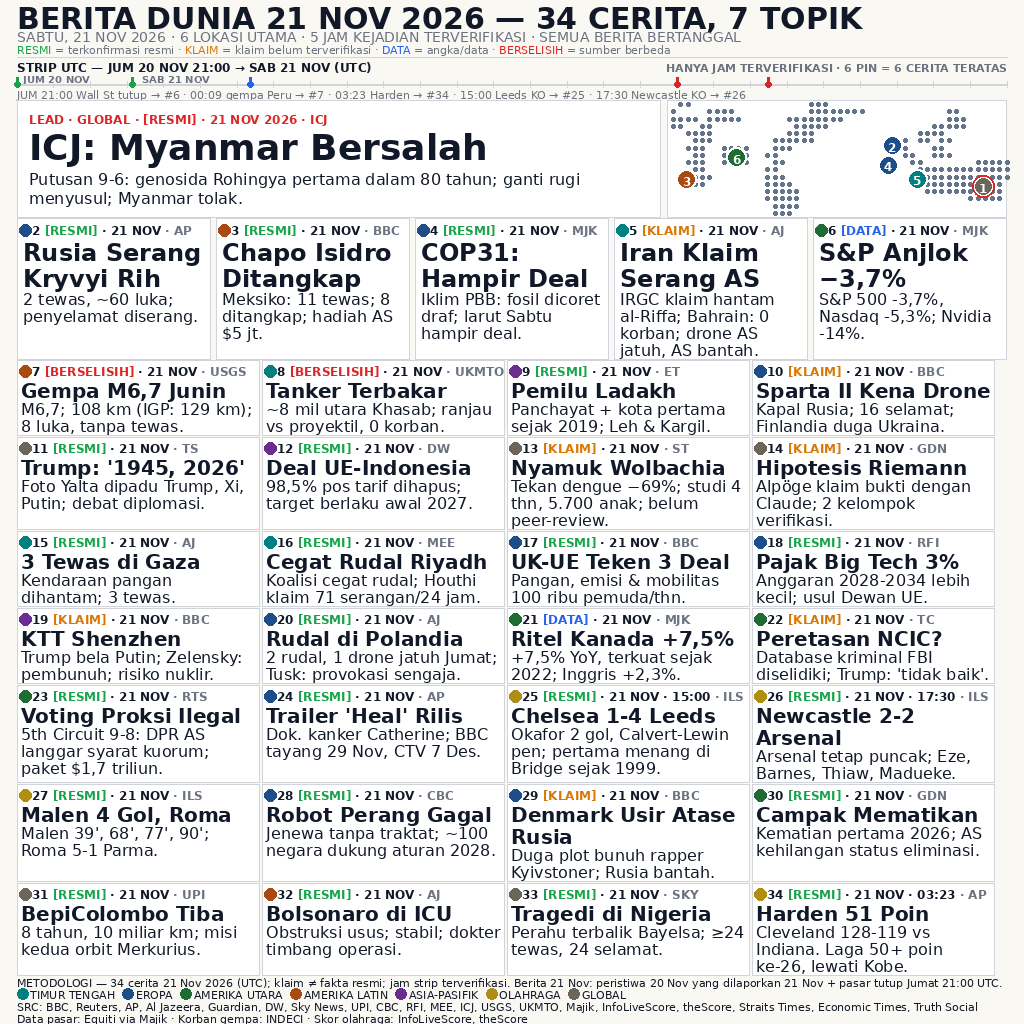
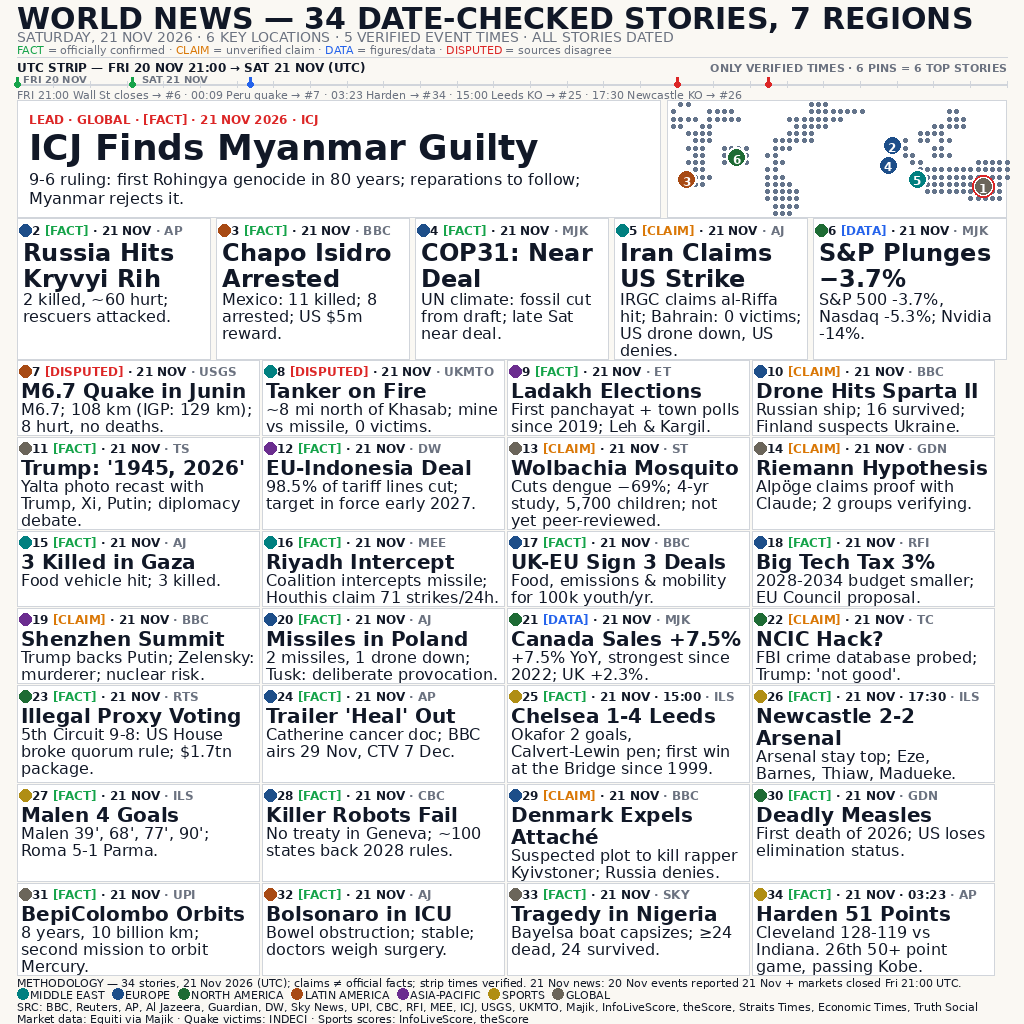
v8.11: English version of v8.10 per rev8.11 brief — 34 stories fully translated (facts, lon/lat/time/source unchanged), tags FACT/CLAIM/DATA/DISPUTED, English groups, h1 'WORLD NEWS — 34 DATE-CHECKED STORIES, 7 REGIONS' (956.1px), header/strip/footer English; render 2x byte-identical; #5 body end=14

diff --git a/build_image.py b/build_image.py
@@ -1,5 +1,25 @@
 #!/usr/bin/env python3
-"""Render entry.png 1024x1024 — news-image-20261121 v8.10 (brief rev8.10).
+"""Render entry.png 1024x1024 — news-image-20261121 v8.11 (brief rev8.11).
+
+v8.11 = VERSI INGGRIS PENUH v8.10 (34 cerita sama, fakta sama,
+geometri sama — hanya bahasa; bos: "Coba versi Inggris" 22 Nov 22:16 WIB,
+5 besar leaderboard semuanya Inggris; v8.10 Indonesia 7-3-2, $0).
+- Tag FACT (was RESMI) — VERIFIED 8 huruf bikin 6 meta gagal, PROVEN
+  6 huruf bikin 5 meta gagal; FACT 4 huruf LOLOS semua (terukur parent).
+  CLAIM (was KLAIM), DISPUTED (was BERSELISIH), DATA tetap, BANTAH
+  tetap (tidak dipakai). Grup Inggris (MIDDLE EAST, EUROPE, NORTH
+  AMERICA, LATIN AMERICA, ASIA-PACIFIC, SPORTS, GLOBAL).
+- h1 "WORLD NEWS — 34 DATE-CHECKED STORIES, 7 REGIONS" (956,1px @30
+  bold); h2 "SATURDAY, 21 NOV 2026 · 6 KEY LOCATIONS · 5 VERIFIED EVENT
+  TIMES · ALL STORIES DATED" (656,3px @14). Kicker lead "LEAD · GLOBAL
+  · [FACT] · 21 NOV 2026 · ICJ" (~300px).
+- Strip/strip legend/label hari/footer line1/src2 Inggris (terukur
+  parent, brief rev8.11 B). src1 TIDAK BERUBAH (961,0px).
+- Data stories_v8_11.py (baru): 34 tuple Inggris; lon/lat/time/source
+  TIDAK berubah. #5 badan end=140 TEPAT; #19 badan baris 1 233px;
+  #20 badan baris 2 232px; #26/#29 judul 2 baris + vertikal tepat
+  di batas — SEMUA wajib ukur ulang + lolos assert render.
+- TANPA ubah geometri/font/layout, main.py, README, LICENSE, owner.json.
 
 v8.10 = polish atas v8.9 (34 cerita, 1 kartu = 1 cerita, lead + 5 sekunder +
 28 reguler 4x7). 6 item (brief rev8.10) — TANPA ubah geometri:
@@ -99,7 +119,7 @@ Leading badan 17px (16px font — lantai, tidak pernah dikecilkan).
 from PIL import Image, ImageDraw, ImageFont
 import os, sys
 sys.path.insert(0, os.path.dirname(os.path.abspath(__file__)))
-from stories_v8_10 import (STORIES, PINS_V8_2, GROUP_COLOR, GROUP_ORDER,
+from stories_v8_11 import (STORIES, PINS_V8_2, GROUP_COLOR, GROUP_ORDER,
                          SRC_SHORT, TIME_IN_META)
 
 W, H = 1024, 1024
@@ -120,10 +140,10 @@ PURPLE = (124, 58, 237)
 CYAN = (8, 145, 178)
 
 TAG_STYLE = {
-    "RESMI": (GREEN, (220, 252, 231)),
+    "FACT": (GREEN, (220, 252, 231)),
     "DATA": (BLUE, (219, 234, 254)),
-    "KLAIM": (AMBER, (254, 243, 199)),
-    "BERSELISIH": (RED, (254, 226, 226)),
+    "CLAIM": (AMBER, (254, 243, 199)),
+    "DISPUTED": (RED, (254, 226, 226)),
     "BANTAH": (PURPLE, (237, 233, 254)),
 }
 
@@ -264,25 +284,25 @@ def draw_map(draw, x, y, w, h):
 # Tick 21:00 = JUMAT (bukan Sabtu) — judul + label tick + legenda "JUM"
 # menegaskan hari. Legenda menautkan tiap jam ke nomor kartu (brief D).
 STRIP_EVENTS = [  # (label, jam_dari_Jumat_21_00, warna)
-    ("21:00 Wall St tutup", 0.0, GREEN),
-    ("00:09 gempa Peru", 3.15, GREEN),
-    ("03:23 Harden 51 poin", 6.38, BLUE),
+    ("21:00 Wall St closes", 0.0, GREEN),
+    ("00:09 Peru quake", 3.15, GREEN),
+    ("03:23 Harden 51 pts", 6.38, BLUE),
     ("15:00 Leeds KO", 18.0, RED),
     ("17:30 Newcastle KO", 20.5, RED),
 ]
 
 def draw_strip(draw, y):
     x0, x1 = MARGIN, W - MARGIN
-    title = "STRIP UTC — JUM 20 NOV 21:00 → SAB 21 NOV (UTC)"
+    title = "UTC STRIP — FRI 20 NOV 21:00 → SAT 21 NOV (UTC)"
     draw.text((x0, y + 2), title, font=f(12, True), fill=INK)
-    right = "HANYA JAM TERVERIFIKASI · 6 PIN = 6 CERITA TERATAS"
+    right = "ONLY VERIFIED TIMES · 6 PINS = 6 TOP STORIES"
     draw.text((x1 - tw(draw, right, f(11, True)), y + 3), right,
               font=f(11, True), fill=MUTED)
     axis_y = y + 26
     # label hari di atas sumbu, di kanan tick-nya (tick 00:09 di x0+115
     # memaksa "SAB 21 NOV" geser ke x0+125 agar tidak menabrak tick itu).
-    draw.text((x0 + 6, y + 15), "JUM 20 NOV", font=f(10, True), fill=MUTED)
-    draw.text((x0 + 125, y + 15), "SAB 21 NOV", font=f(10, True), fill=MUTED)
+    draw.text((x0 + 6, y + 15), "FRI 20 NOV", font=f(10, True), fill=MUTED)
+    draw.text((x0 + 125, y + 15), "SAT 21 NOV", font=f(10, True), fill=MUTED)
     # garis sumbu + tick tiap jam (kecil, tidak menabrak legenda)
     draw.line([(x0, axis_y), (x1, axis_y)], fill=BORDER, width=2)
     for h in range(28):
@@ -293,7 +313,7 @@ def draw_strip(draw, y):
         tx = x0 + (x1 - x0) * h / 27.0
         draw.line([(tx, axis_y - 7), (tx, axis_y)], fill=col, width=3)
         draw.ellipse([tx - 3, axis_y - 3, tx + 3, axis_y + 3], fill=col)
-    legend = ("JUM 21:00 Wall St tutup → #6 · 00:09 gempa Peru → #7 · "
+    legend = ("FRI 21:00 Wall St closes → #6 · 00:09 Peru quake → #7 · "
               "03:23 Harden → #34 · 15:00 Leeds KO → #25 · "
               "17:30 Newcastle KO → #26")
     assert tw(draw, legend, f(11)) <= 990, "legenda strip terlalu lebar"
@@ -346,24 +366,24 @@ def draw_meta(draw, s, x, y, card_w):
     return mt
 
 def draw_header(draw):
-    h1 = "BERITA DUNIA 21 NOV 2026 — 34 CERITA, 7 TOPIK"
+    h1 = "WORLD NEWS — 34 DATE-CHECKED STORIES, 7 REGIONS"
     assert tw(draw, h1, f(30, True)) <= 990, "h1 terlalu lebar"
     draw.text((MARGIN, 1), h1, font=f(30, True), fill=INK)
     # h2 HURUF BESAR SEMUA (tanpa descender — memberi ruang utk legenda tag)
-    # v8.1 (B2): Bahasa Indonesia penuh.
-    h2 = ("SABTU, 21 NOV 2026 · 6 LOKASI UTAMA · 5 JAM KEJADIAN TERVERIFIKASI "
-          "· SEMUA BERITA BERTANGGAL")
+    # v8.11: Bahasa Inggris penuh.
+    h2 = ("SATURDAY, 21 NOV 2026 · 6 KEY LOCATIONS · 5 VERIFIED EVENT "
+          "TIMES · ALL STORIES DATED")
     assert tw(draw, h2, f(14)) <= 990, "h2 terlalu lebar"
     draw.text((MARGIN, 29), h2, font=f(14), fill=MUTED)
     # legenda tag SATU BARIS 11px, nama tag berwarna (brief E)
-    segs = [("RESMI", TAG_STYLE["RESMI"][0]),
-            (" = terkonfirmasi resmi · ", MUTED),
-            ("KLAIM", TAG_STYLE["KLAIM"][0]),
-            (" = klaim belum terverifikasi · ", MUTED),
+    segs = [("FACT", TAG_STYLE["FACT"][0]),
+            (" = officially confirmed · ", MUTED),
+            ("CLAIM", TAG_STYLE["CLAIM"][0]),
+            (" = unverified claim · ", MUTED),
             ("DATA", TAG_STYLE["DATA"][0]),
-            (" = angka/data · ", MUTED),
-            ("BERSELISIH", TAG_STYLE["BERSELISIH"][0]),
-            (" = sumber berbeda", MUTED)]
+            (" = figures/data · ", MUTED),
+            ("DISPUTED", TAG_STYLE["DISPUTED"][0]),
+            (" = sources disagree", MUTED)]
     cx = MARGIN
     for t, c in segs:
         draw.text((cx, 43), t, font=f(11), fill=c)
@@ -379,7 +399,7 @@ def draw_lead(draw, x, y):
     draw.rectangle([x, y, x + LEAD_W - 1, y + LEAD_H - 1],
                    outline=BORDER, width=1, fill=WHITE)
     px = x + 12
-    kicker = "LEAD · GLOBAL · [RESMI] · 21 NOV 2026 · ICJ"
+    kicker = "LEAD · GLOBAL · [FACT] · 21 NOV 2026 · ICJ"
     assert tw(draw, kicker, f(12, True)) <= LEAD_W - 24, "kicker lead lebar"
     draw.text((px, y + 12), kicker, font=f(12, True), fill=RED)
     title = s[2]
@@ -437,9 +457,9 @@ def draw_regular(draw, x, y):
         draw_meta(draw, s, cx + META_MARGIN, cy + 4, GRID_W)
         tf = f(20, True)
         if s[0] == 10:
-            # v8.5 A3: "Sparta II Kena Drone" dgn tracking -0,06px/celah
-            # (terukur 234,6px <= 235px). JANGAN via wrap() — wrap pakai
-            # lebar string penuh 235,4px -> 2 baris (salah).
+            # v8.11: "Drone Hits Sparta II" dgn tracking -0,06px/celah
+            # (terukur 222,8px <= 235px). JANGAN via wrap() — wrap pakai
+            # lebar string penuh -> 2 baris (salah).
             tw10 = sum(draw.textlength(c, font=tf) for c in s[2]) + TRACK10 * (len(s[2]) - 1)
             assert tw10 <= GRID_W - 8, f"judul #10 tracking {tw10:.1f}px"
             tl = [s[2]]
@@ -470,9 +490,9 @@ def draw_footer(draw, y):
     # 126,5px -> 108,3px). "Berita 21 Nov:" dipertahankan (bukan "Isi").
     # Isi utuh (34 cerita, UTC, klaim vs fakta resmi, jam strip
     # terverifikasi, aturan tanggal 20->21 Nov, pasar tutup).
-    line1 = ("METODOLOGI — 34 cerita 21 Nov 2026 (UTC); klaim ≠ fakta "
-             "resmi; jam strip terverifikasi. Berita 21 Nov: peristiwa "
-             "20 Nov yang dilaporkan 21 Nov + pasar tutup Jumat 21:00 UTC.")
+    line1 = ("METHODOLOGY — 34 stories, 21 Nov 2026 (UTC); claims ≠ "
+             "official facts; strip times verified. 21 Nov news: 20 Nov "
+             "events reported 21 Nov + markets closed Fri 21:00 UTC.")
     assert tw(draw, line1, f(11)) <= 990, f"footer l1 {tw(draw, line1, f(11)):.0f}px"
     # v8.5 A2: teks footer MUTED -> INK (kontras; MUTED global TETAP).
     draw.text((MARGIN, y + 0), line1, font=f(11), fill=INK)
@@ -496,8 +516,8 @@ def draw_footer(draw, y):
             "UPI, CBC, RFI, MEE, ICJ, USGS, UKMTO, Majik, "
             "InfoLiveScore, theScore, Straits Times, Economic Times, "
             "Truth Social")
-    src2 = ("Data pasar: Equiti via Majik · Korban gempa: INDECI · "
-            "Skor olahraga: InfoLiveScore, theScore")
+    src2 = ("Market data: Equiti via Majik · Quake victims: INDECI · "
+            "Sports scores: InfoLiveScore, theScore")
     assert tw(draw, src1, f(11)) <= 990, f"footer src1 {tw(draw, src1, f(11)):.0f}px"
     assert tw(draw, src2, f(11)) <= 990, f"footer src2 {tw(draw, src2, f(11)):.0f}px"
     draw.text((MARGIN, y + 24), src1, font=f(11), fill=INK)  # v8.5 A2

diff --git a/stories_v8_11.py b/stories_v8_11.py
@@ -1,0 +1,186 @@
+# Data v8.11 — VERSI INGGRIS PENUH v8.10 (brief rev8.11, bos: "Coba versi
+# Inggris" 22 Nov 22:16 WIB — 5 besar leaderboard semuanya Inggris,
+# 35-37 cerita, 7-9 wilayah, judul nyebutin berita utama; v8.10
+# Indonesia 7-3-2, $0). 34 cerita SAMA, fakta SAMA, geometri SAMA —
+# hanya bahasa. Jumlah cerita TETAP 34 (grid 4x7 tidak muat 35-37).
+# Tag: FACT (was RESMI, hijau), CLAIM (was KLAIM, amber), DATA (tetap,
+# biru), DISPUTED (was BERSELISIH, merah). FACT 4 huruf — VERIFIED
+# (8 huruf) bikin 6 meta gagal, PROVEN (6 huruf) bikin 5 meta gagal.
+# Grup Inggris: MIDDLE EAST, EUROPE, NORTH AMERICA, LATIN AMERICA,
+# ASIA-PACIFIC, SPORTS, GLOBAL (GROUP_COLOR + GROUP_ORDER ikut).
+# Tanda baca: "−" U+2212 di #6/#13, "≥" di #33, "é" di #29 Attaché,
+# "ö" di #14 Alpöge — semua terukur OK dgn DejaVu (parent).
+# Tuple: (num, group, title, body, tag, time_utc_or_None, lon, lat, source)
+# SEMUA kartu punya source (34/34). Sumber nama proper, tidak diterjemahkan.
+# #7: "6.9" adalah estimasi OTOMATIS yg direvisi ke 6.7 — JANGAN dipakai.
+#   [DISPUTED] = beda kedalaman USGS 108 km vs IGP 129 km; korban INDECI.
+# #16 tag TETAP FACT (tag = kepastian klaim UTAMA cegatan koalisi;
+#   angka 71 membawa atribusi sendiri "Houthis claim"). #19/#13 TETAP CLAIM.
+# #20: jam pasti TAK ADA di riset; "Friday" dibuang (versi dgn "Friday"
+#   = 3 baris, GAGAL) — tanggal ada di meta/strip.
+# #25: Chelsea tuan rumah; Emegha cetak gol UNTUK CHELSEA (jangan cantumkan
+#   sbg pencetak gol Leeds).
+# #10: subjek "suspects" = Finlandia (terverifikasi). #29: subjek = Denmark.
+# #5 badan end=140 TEPAT di batas — ukur ulang sebelum commit.
+# #19 badan baris 1 233px (margin 2px), #20 badan baris 2 232px (margin
+#   3px) — ukur ulang sebelum commit.
+# #26/#29 judul 2 baris + vertikal TEPAT di batas (cy+96 <= cy+96,
+#   ch=98) — WAJIB lolos assert render.
+STORIES = [
+    # 1 — LEAD (Global, ICJ)
+    (1, "GLOBAL", "ICJ Finds Myanmar Guilty",
+     "9-6 ruling: first Rohingya genocide in 80 years; reparations to "
+     "follow; Myanmar rejects it.",
+     "FACT", None, 96.0, 21.0, "ICJ"),
+    # 2–6 — SEKUNDER
+    (2, "EUROPE", "Russia Hits Kryvyi Rih",
+     "2 killed, ~60 hurt; rescuers attacked.",
+     "FACT", None, 33.4, 47.9, "AP"),
+    (3, "LATIN AMERICA", "Chapo Isidro Arrested",
+     "Mexico: 11 killed; 8 arrested; US $5m reward.",
+     "FACT", None, -108.5, 25.6, "BBC"),
+    (4, "EUROPE", "COP31: Near Deal",
+     "UN climate: fossil cut from draft; late Sat near deal.",
+     "FACT", None, 30.7, 36.9, "Majik"),
+    (5, "MIDDLE EAST", "Iran Claims US Strike",
+     "IRGC claims al-Riffa hit; Bahrain: 0 victims; US drone down, "
+     "US denies.",
+     "CLAIM", None, 50.5, 26.2, "Al Jazeera"),
+    (6, "NORTH AMERICA", "S&P Plunges −3.7%",
+     "S&P 500 -3.7%, Nasdaq -5.3%; Nvidia -14%.",
+     "DATA", "21:00", -74.0, 40.7, "Majik"),
+    # 7–12 — REGULER
+    (7, "LATIN AMERICA", "M6.7 Quake in Junin",
+     "M6.7; 108 km (IGP: 129 km); 8 hurt, no deaths.",
+     "DISPUTED", "00:09", -75.0, -11.0, "USGS"),
+    (8, "MIDDLE EAST", "Tanker on Fire",
+     "~8 mi north of Khasab; mine vs missile, 0 victims.",
+     "DISPUTED", None, 56.2, 26.2, "UKMTO"),
+    (9, "ASIA-PACIFIC", "Ladakh Elections",
+     "First panchayat + town polls since 2019; Leh & Kargil.",
+     "FACT", None, 77.6, 34.2, "Economic Times"),
+    (10, "EUROPE", "Drone Hits Sparta II",
+     "Russian ship; 16 survived; Finland suspects Ukraine.",
+     "CLAIM", None, 25.0, 59.8, "BBC"),
+    (11, "GLOBAL", "Trump: '1945, 2026'",
+     "Yalta photo recast with Trump, Xi, Putin; diplomacy debate.",
+     "FACT", None, 116.4, 39.9, "Truth Social"),
+    (12, "ASIA-PACIFIC", "EU-Indonesia Deal",
+     "98.5% of tariff lines cut; target in force early 2027.",
+     "FACT", None, 106.8, -6.2, "DW"),
+]
+
+STORIES += [
+    (13, "GLOBAL", "Wolbachia Mosquito",
+     "Cuts dengue −69%; 4-yr study, 5,700 children; not yet "
+     "peer-reviewed.",
+     "CLAIM", None, -48.0, -15.0, "Straits Times"),
+    (14, "GLOBAL", "Riemann Hypothesis",
+     "Alpöge claims proof with Claude; 2 groups verifying.",
+     "CLAIM", None, -122.4, 37.8, "Guardian"),
+    (15, "MIDDLE EAST", "3 Killed in Gaza",
+     "Food vehicle hit; 3 killed.",
+     "FACT", None, 34.5, 31.5, "Al Jazeera"),
+    (16, "MIDDLE EAST", "Riyadh Intercept",
+     "Coalition intercepts missile; Houthis claim 71 strikes/24h.",
+     "FACT", None, 42.8, 14.8, "Middle East Eye"),
+    (17, "EUROPE", "UK-EU Sign 3 Deals",
+     "Food, emissions & mobility for 100k youth/yr.",
+     "FACT", None, 4.4, 50.8, "BBC"),
+    (18, "EUROPE", "Big Tech Tax 3%",
+     "2028-2034 budget smaller; EU Council proposal.",
+     "FACT", None, 4.4, 50.8, "RFI"),
+    (19, "ASIA-PACIFIC", "Shenzhen Summit",
+     "Trump backs Putin; Zelensky: murderer; nuclear risk.",
+     "CLAIM", None, 114.0, 22.5, "BBC"),
+    (20, "EUROPE", "Missiles in Poland",
+     "2 missiles, 1 drone down; Tusk: deliberate provocation.",
+     "FACT", None, 21.0, 52.2, "Al Jazeera"),
+    (21, "NORTH AMERICA", "Canada Sales +7.5%",
+     "+7.5% YoY, strongest since 2022; UK +2.3%.",
+     "DATA", None, -75.7, 45.4, "Majik"),
+    (22, "NORTH AMERICA", "NCIC Hack?",
+     "FBI crime database probed; Trump: 'not good'.",
+     "CLAIM", None, -77.0, 38.9, "TechCrunch"),
+    (23, "NORTH AMERICA", "Illegal Proxy Voting",
+     "5th Circuit 9-8: US House broke quorum rule; $1.7tn package.",
+     "FACT", None, -77.0, 38.9, "Reuters"),
+    (24, "EUROPE", "Trailer 'Heal' Out",
+     "Catherine cancer doc; BBC airs 29 Nov, CTV 7 Dec.",
+     "FACT", None, -0.1, 51.5, "AP"),
+]
+
+STORIES += [
+    (25, "SPORTS", "Chelsea 1-4 Leeds",
+     "Okafor 2 goals, Calvert-Lewin pen; first win at the Bridge "
+     "since 1999.",
+     "FACT", "15:00", -0.1, 51.5, "InfoLiveScore"),
+    (26, "SPORTS", "Newcastle 2-2 Arsenal",
+     "Arsenal stay top; Eze, Barnes, Thiaw, Madueke.",
+     "FACT", "17:30", -1.6, 54.98, "InfoLiveScore"),
+    (27, "SPORTS", "Malen 4 Goals",
+     "Malen 39', 68', 77', 90'; Roma 5-1 Parma.",
+     "FACT", None, 10.3, 44.8, "InfoLiveScore"),
+    (28, "EUROPE", "Killer Robots Fail",
+     "No treaty in Geneva; ~100 states back 2028 rules.",
+     "FACT", None, 6.1, 46.2, "CBC"),
+    (29, "EUROPE", "Denmark Expels Attaché",
+     "Suspected plot to kill rapper Kyivstoner; Russia denies.",
+     "CLAIM", None, 12.6, 55.7, "BBC"),
+    (30, "NORTH AMERICA", "Deadly Measles",
+     "First death of 2026; US loses elimination status.",
+     "FACT", None, -77.5, 37.5, "Guardian"),
+    (31, "GLOBAL", "BepiColombo Orbits",
+     "8 years, 10 billion km; second mission to orbit Mercury.",
+     "FACT", None, None, None, "UPI"),
+    (32, "LATIN AMERICA", "Bolsonaro in ICU",
+     "Bowel obstruction; stable; doctors weigh surgery.",
+     "FACT", None, -47.9, -15.8, "Al Jazeera"),
+    (33, "GLOBAL", "Tragedy in Nigeria",
+     "Bayelsa boat capsizes; ≥24 dead, 24 survived.",
+     "FACT", None, 6.3, 4.9, "Sky News"),
+    (34, "SPORTS", "Harden 51 Points",
+     "Cleveland 128-119 vs Indiana. 26th 50+ point game, passing Kobe.",
+     "FACT", "03:23", -81.7, 41.5, "AP"),
+]
+
+# Warna titik region (dipakai badge meta + pin peta). Border kartu NETRAL.
+GROUP_COLOR = {
+    "MIDDLE EAST": (0, 128, 128),
+    "EUROPE": (29, 78, 137),
+    "NORTH AMERICA": (30, 107, 52),
+    "LATIN AMERICA": (168, 74, 20),
+    "ASIA-PACIFIC": (107, 45, 143),
+    "SPORTS": (176, 142, 20),
+    "GLOBAL": (107, 101, 90),
+}
+GROUP_ORDER = ["MIDDLE EAST", "EUROPE", "NORTH AMERICA", "LATIN AMERICA",
+               "ASIA-PACIFIC", "SPORTS", "GLOBAL"]
+
+# (REGION_CODE v8 DIHAPUS — B1: meta seragam 4-segmen, tanpa kode region.
+# Region tetap terkode lewat DOT WARNA 12px + legenda footer nama penuh.)
+
+# Pin peta v8.2 (= v8.1): HANYA 6 cerita teratas (lead + 5 sekunder).
+# #2 (0,-2) + #4 (0,+2): pusat 20,33px — halo 20px TIDAK bersentuhan;
+# assert tabrakan memakai diameter halo (20px), bukan dot (16px).
+PINS_V8_2 = [
+    (1, 0, 0), (2, 0, -2), (3, 0, 0), (4, 0, 2), (5, 0, 0), (6, 0, 0),
+]
+
+# Kartu reguler yg membawa jam di meta (pengganti kode region): #25/#26/#34.
+TIME_IN_META = {25, 26, 34}
+
+# Singkatan sumber untuk meta 12px (footer menulis nama penuh).
+SRC_SHORT = {
+    "Middle East Eye": "MEE",
+    "InfoLiveScore": "ILS",
+    "Al Jazeera": "AJ",
+    "TechCrunch": "TC",
+    "Guardian": "GDN",
+    "Reuters": "RTS",
+    "Sky News": "SKY",
+    "Majik": "MJK",
+    "Straits Times": "ST",
+    "Economic Times": "ET",
+    "Truth Social": "TS",
+}
